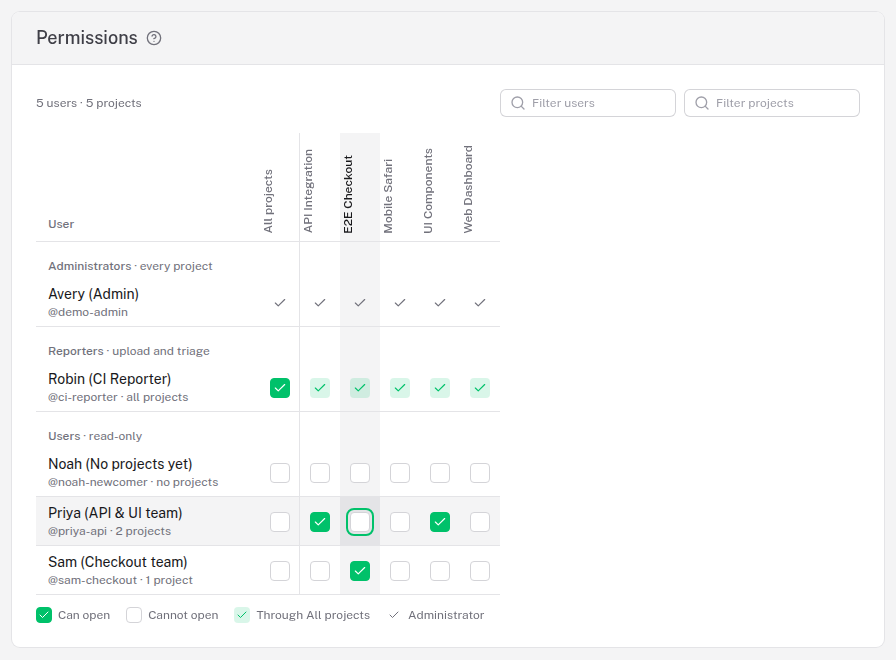
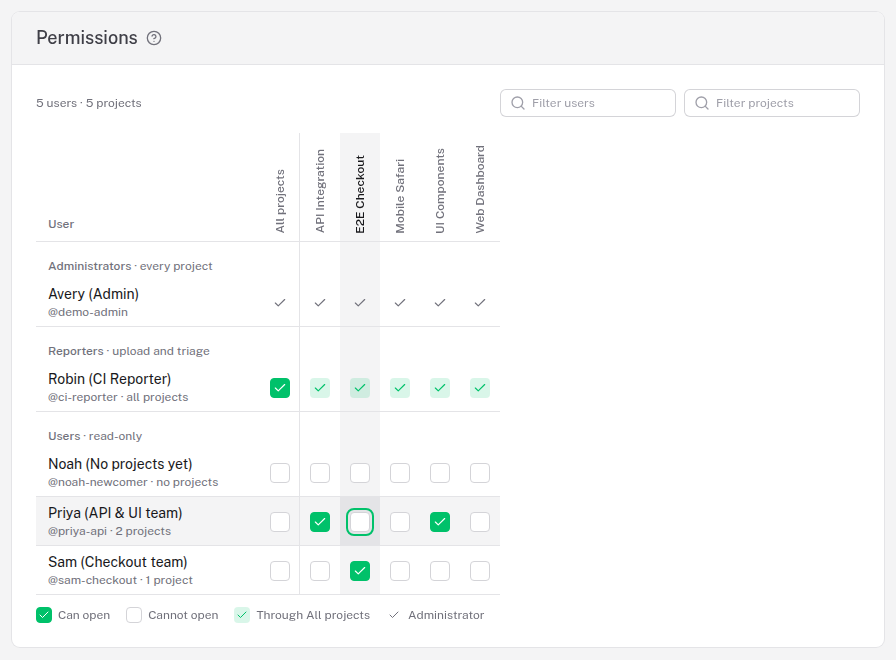
fix(ui): center the permission grid's project names over their columns
The vertical project names sat 12px left of their column's checkboxes.
Tailwind 4 compiles `mx-auto` to `margin-inline: auto`, and logical
margins resolve against the element's own writing mode, so on a
`vertical-rl` label they became top and bottom margins. Physical
`ml-auto mr-auto` centers the label; the docs screenshot is recaptured.

Claude-Session: https://claude.ai/code/session_01D26t9RoiFoCsPGzywqhgqg

Changed region(s): [[0.2812, 0.2121, 0.5625, 0.3636]]

diff --git a/apps/application/app/components/settings/ProjectAccessGrid.vue b/apps/application/app/components/settings/ProjectAccessGrid.vue
@@ -229,9 +229,12 @@ function userMeta(user: ProjectAccessUser): string {
                 { 'border-r': column.projectId === null },
               ]"
             >
-              <span class="mx-auto block max-h-32 truncate text-xs font-medium [writing-mode:vertical-rl] rotate-180">{{
-                column.label
-              }}</span>
+              <!-- Physical `ml-auto mr-auto`: `mx-auto` is margin-inline, which a vertical
+                   label resolves to its top and bottom, leaving it flush left. -->
+              <span
+                class="ml-auto mr-auto block max-h-32 truncate text-xs font-medium [writing-mode:vertical-rl] rotate-180"
+                >{{ column.label }}</span
+              >
             </th>
           </tr>
         </thead>
